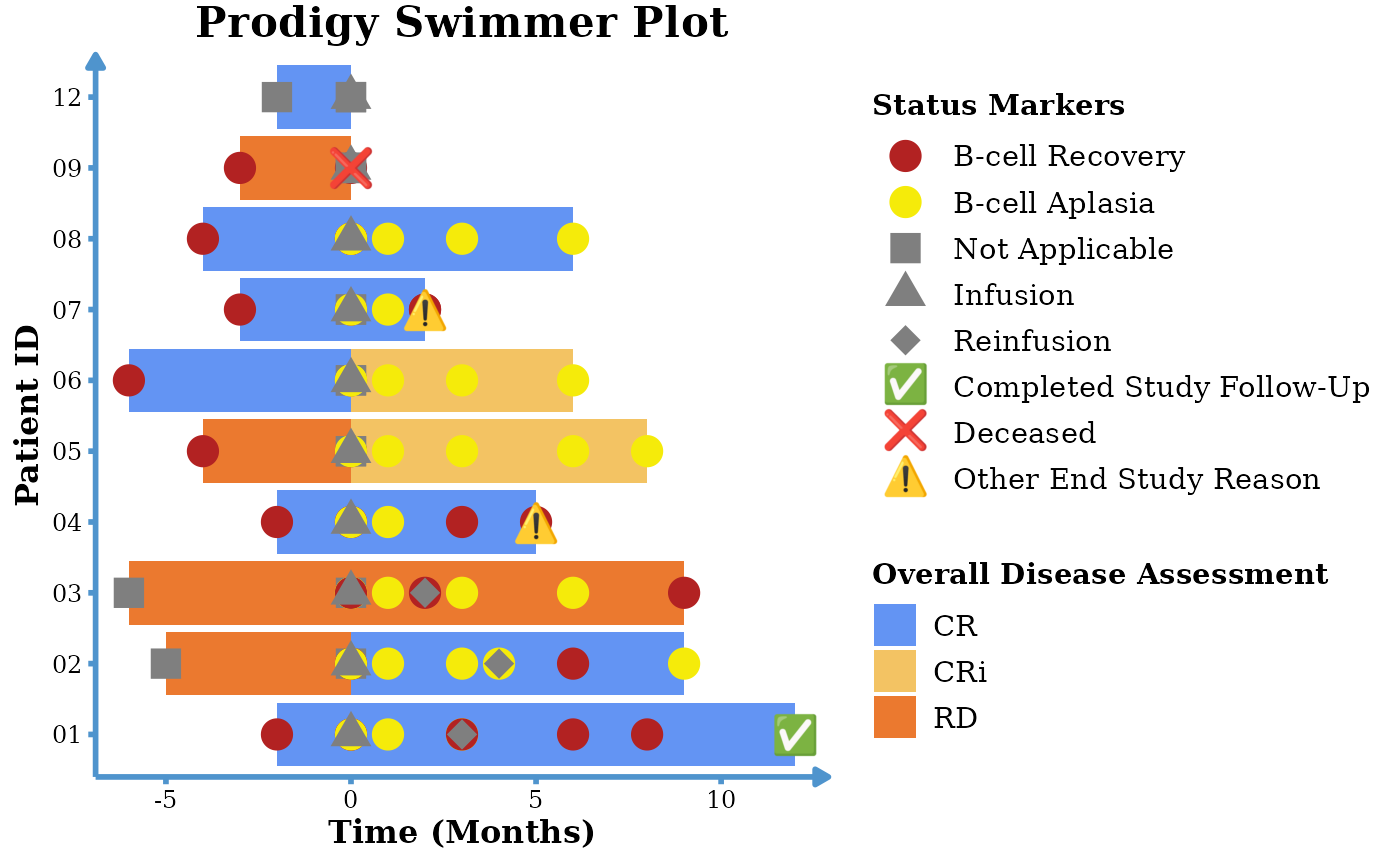
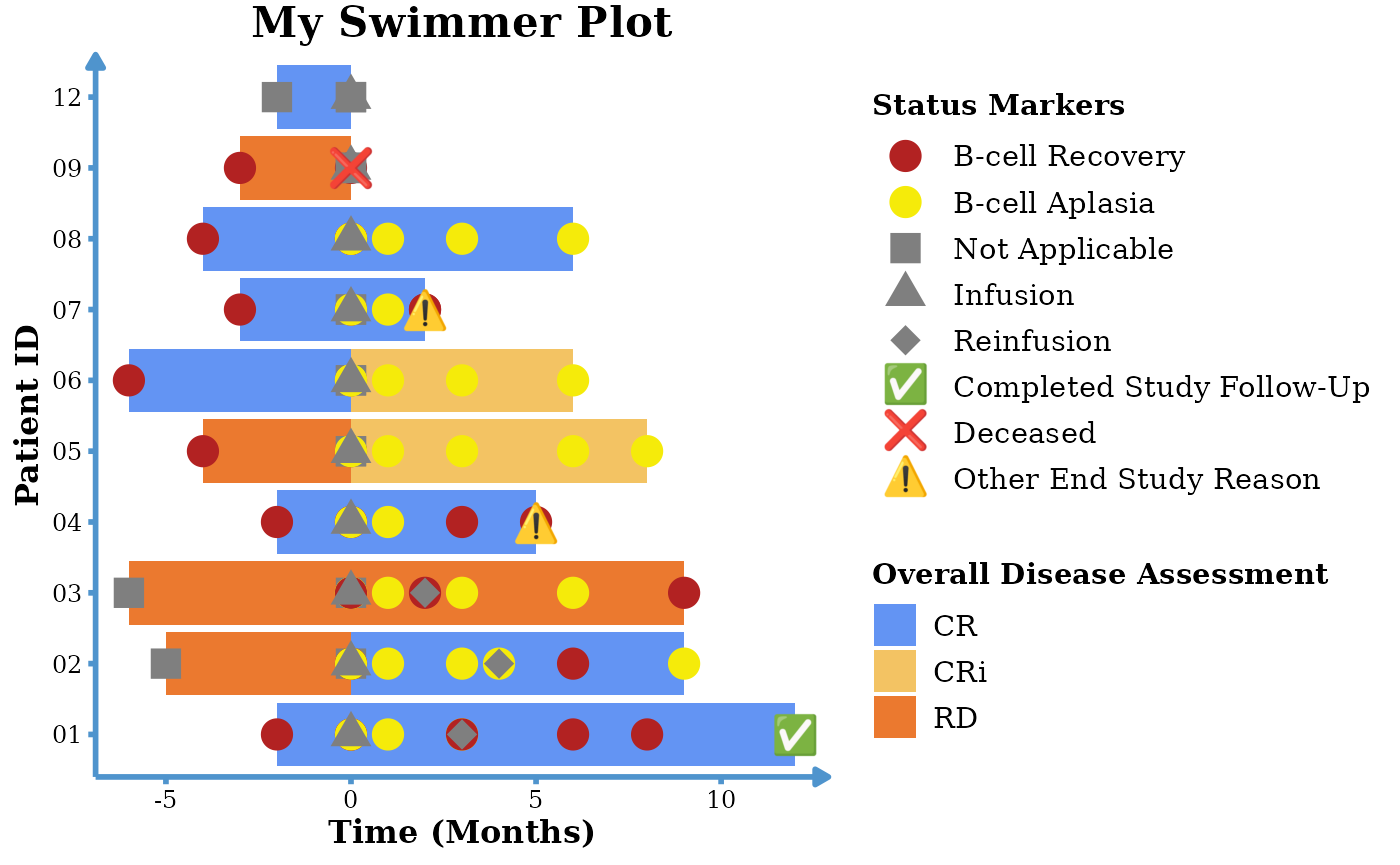
Deploying to gh-pages from @ CHOP-CGTInformatics/ggswim@d93b7309de7ccf1e400dff4c948893e9ae86e763 🚀

Changed region(s): [[0.1229, 0.0, 0.5221, 0.0624]]

diff --git a/articles/ggswim.html b/articles/ggswim.html
@@ -148,7 +148,7 @@ disease assessment timepoint where:</li>
 <code><a href="../reference/add_marker.html">add_marker()</a></code> call:</p>
 <div class="sourceCode" id="cb1"><pre class="downlit sourceCode r">
 <code class="sourceCode R"><span><span class="va">p</span> <span class="op">&lt;-</span> <span class="fu"><a href="../reference/ggswim.html">ggswim</a></span><span class="op">(</span></span>
-<span>  <span class="va">patient_data</span>,</span>
+<span>  <span class="va">patient_data</span> <span class="op">|&gt;</span> <span class="fu">dplyr</span><span class="fu">::</span><span class="fu"><a href="https://dplyr.tidyverse.org/reference/rename.html" class="external-link">rename</a></span><span class="op">(</span><span class="st">"Status Markers"</span> <span class="op">=</span> <span class="va">bcell_status</span><span class="op">)</span>,</span>
 <span>  mapping <span class="op">=</span> <span class="fu"><a href="https://ggplot2.tidyverse.org/reference/aes.html" class="external-link">aes</a></span><span class="op">(</span>x <span class="op">=</span> <span class="va">delta_t0_months</span>,</span>
 <span>                y <span class="op">=</span> <span class="va">pt_id</span>, fill <span class="op">=</span> </span>
 <span>                  <span class="va">disease_assessment_status</span><span class="op">)</span></span>
@@ -178,7 +178,6 @@ beyond <code>t0</code> if a patient required any.</p>
 <code class="sourceCode R"><span></span>
 <span><span class="va">p</span> <span class="op">&lt;-</span> <span class="va">p</span> <span class="op">+</span></span>
 <span>  <span class="fu"><a href="../reference/add_marker.html">add_marker</a></span><span class="op">(</span></span>
-<span>    <span class="va">patient_data</span> <span class="op">|&gt;</span> <span class="fu">dplyr</span><span class="fu">::</span><span class="fu"><a href="https://dplyr.tidyverse.org/reference/rename.html" class="external-link">rename</a></span><span class="op">(</span><span class="st">"Status Markers"</span> <span class="op">=</span> <span class="va">bcell_status</span><span class="op">)</span>,</span>
 <span>    <span class="fu"><a href="https://ggplot2.tidyverse.org/reference/aes.html" class="external-link">aes</a></span><span class="op">(</span>x <span class="op">=</span> <span class="va">delta_t0_months</span>, </span>
 <span>        y <span class="op">=</span> <span class="va">pt_id</span>, </span>
 <span>        color <span class="op">=</span> <span class="va">`Status Markers`</span>, </span>
@@ -186,7 +185,7 @@ beyond <code>t0</code> if a patient required any.</p>
 <span>    size <span class="op">=</span> <span class="fl">5</span>, position <span class="op">=</span> <span class="st">"identity"</span>, alpha <span class="op">=</span> <span class="fl">1</span></span>
 <span>  <span class="op">)</span> <span class="op">+</span></span>
 <span>  <span class="fu"><a href="../reference/add_marker.html">add_marker</a></span><span class="op">(</span></span>
-<span>    <span class="va">infusion_events</span>,</span>
+<span>    data <span class="op">=</span> <span class="va">infusion_events</span>,</span>
 <span>    <span class="fu"><a href="https://ggplot2.tidyverse.org/reference/aes.html" class="external-link">aes</a></span><span class="op">(</span>x <span class="op">=</span> <span class="va">infusion_delta_t0</span>, </span>
 <span>        y <span class="op">=</span> <span class="va">pt_id</span>, </span>
 <span>        color <span class="op">=</span> <span class="va">infusion_type</span>, </span>
@@ -221,7 +220,7 @@ using the appropriate argument callouts (<code>label</code> and
 <div class="sourceCode" id="cb5"><pre class="downlit sourceCode r">
 <code class="sourceCode R"><span><span class="va">p</span> <span class="op">&lt;-</span> <span class="va">p</span> <span class="op">+</span></span>
 <span>  <span class="fu"><a href="../reference/add_marker.html">add_marker</a></span><span class="op">(</span></span>
-<span>    <span class="va">end_study_events</span>,</span>
+<span>    data <span class="op">=</span> <span class="va">end_study_events</span>,</span>
 <span>    <span class="fu"><a href="https://ggplot2.tidyverse.org/reference/aes.html" class="external-link">aes</a></span><span class="op">(</span>x <span class="op">=</span> <span class="va">delta_t0_months</span>, </span>
 <span>        y <span class="op">=</span> <span class="va">pt_id</span>, </span>
 <span>        label <span class="op">=</span> <span class="va">end_study_label</span>, </span>
@@ -251,7 +250,7 @@ Let’s fix up this plot so it looks nicer on the eyes:</p>
 <span>    name <span class="op">=</span> <span class="st">"Overall Disease Assessment"</span>,</span>
 <span>    values <span class="op">=</span> <span class="fu"><a href="https://rdrr.io/r/base/c.html" class="external-link">c</a></span><span class="op">(</span><span class="st">"#6394F3"</span>, <span class="st">"#F3C363"</span>, <span class="st">"#EB792F"</span><span class="op">)</span></span>
 <span>  <span class="op">)</span> <span class="op">+</span></span>
-<span>  <span class="fu"><a href="https://ggplot2.tidyverse.org/reference/labs.html" class="external-link">labs</a></span><span class="op">(</span>title <span class="op">=</span> <span class="st">"Prodigy Swimmer Plot"</span><span class="op">)</span> <span class="op">+</span></span>
+<span>  <span class="fu"><a href="https://ggplot2.tidyverse.org/reference/labs.html" class="external-link">labs</a></span><span class="op">(</span>title <span class="op">=</span> <span class="st">"My Swimmer Plot"</span><span class="op">)</span> <span class="op">+</span></span>
 <span>  <span class="fu"><a href="https://ggplot2.tidyverse.org/reference/labs.html" class="external-link">xlab</a></span><span class="op">(</span><span class="st">"Time (Months)"</span><span class="op">)</span> <span class="op">+</span> <span class="fu"><a href="https://ggplot2.tidyverse.org/reference/labs.html" class="external-link">ylab</a></span><span class="op">(</span><span class="st">"Patient ID"</span><span class="op">)</span></span>
 <span></span>
 <span><span class="va">p</span></span></code></pre></div>
@@ -287,12 +286,11 @@ legend, ensuring clarity in your visualization.</p>
 <p>Now, let’s plot it similarly to how we have previously:</p>
 <div class="sourceCode" id="cb9"><pre class="downlit sourceCode r">
 <code class="sourceCode R"><span><span class="fu"><a href="../reference/ggswim.html">ggswim</a></span><span class="op">(</span></span>
-<span>  data <span class="op">=</span> <span class="va">patient_data</span>,</span>
+<span>  data <span class="op">=</span> <span class="va">patient_data</span> <span class="op">|&gt;</span> <span class="fu">dplyr</span><span class="fu">::</span><span class="fu"><a href="https://dplyr.tidyverse.org/reference/rename.html" class="external-link">rename</a></span><span class="op">(</span><span class="st">"Status Markers"</span> <span class="op">=</span> <span class="va">bcell_status</span><span class="op">)</span>,</span>
 <span>  mapping <span class="op">=</span> <span class="fu"><a href="https://ggplot2.tidyverse.org/reference/aes.html" class="external-link">aes</a></span><span class="op">(</span>x <span class="op">=</span> <span class="va">delta_t0_months</span>, y <span class="op">=</span> <span class="va">pt_id</span>, fill <span class="op">=</span> <span class="va">disease_assessment_status</span><span class="op">)</span></span>
 <span><span class="op">)</span> <span class="op">+</span></span>
 <span>  <span class="co"># Same markers as before for Disease Assessment</span></span>
 <span>  <span class="fu"><a href="../reference/add_marker.html">add_marker</a></span><span class="op">(</span></span>
-<span>    <span class="va">patient_data</span> <span class="op">|&gt;</span> <span class="fu">dplyr</span><span class="fu">::</span><span class="fu"><a href="https://dplyr.tidyverse.org/reference/rename.html" class="external-link">rename</a></span><span class="op">(</span><span class="st">"Status Markers"</span> <span class="op">=</span> <span class="va">bcell_status</span><span class="op">)</span>,</span>
 <span>    <span class="fu"><a href="https://ggplot2.tidyverse.org/reference/aes.html" class="external-link">aes</a></span><span class="op">(</span>x <span class="op">=</span> <span class="va">delta_t0_months</span>, </span>
 <span>        y <span class="op">=</span> <span class="va">pt_id</span>, </span>
 <span>        color <span class="op">=</span> <span class="va">`Status Markers`</span>, </span>
@@ -301,12 +299,12 @@ legend, ensuring clarity in your visualization.</p>
 <span>  <span class="op">)</span> <span class="op">+</span></span>
 <span>  <span class="co"># New manual color markers for Infusions</span></span>
 <span>  <span class="fu"><a href="../reference/add_marker.html">add_marker</a></span><span class="op">(</span></span>
-<span>    <span class="va">initial_infusions</span>,</span>
+<span>    data <span class="op">=</span> <span class="va">initial_infusions</span>,</span>
 <span>    <span class="fu"><a href="https://ggplot2.tidyverse.org/reference/aes.html" class="external-link">aes</a></span><span class="op">(</span>x <span class="op">=</span> <span class="va">infusion_delta_t0</span>, y <span class="op">=</span> <span class="va">pt_id</span>, name <span class="op">=</span> <span class="st">"Initial Infusion"</span><span class="op">)</span>,</span>
 <span>    size <span class="op">=</span> <span class="fl">5</span>, position <span class="op">=</span> <span class="st">"identity"</span>, color <span class="op">=</span> <span class="st">"green"</span></span>
 <span>  <span class="op">)</span> <span class="op">+</span></span>
 <span>  <span class="fu"><a href="../reference/add_marker.html">add_marker</a></span><span class="op">(</span></span>
-<span>    <span class="va">reinfusions</span>,</span>
+<span>    data <span class="op">=</span> <span class="va">reinfusions</span>,</span>
 <span>    <span class="fu"><a href="https://ggplot2.tidyverse.org/reference/aes.html" class="external-link">aes</a></span><span class="op">(</span>x <span class="op">=</span> <span class="va">infusion_delta_t0</span>, y <span class="op">=</span> <span class="va">pt_id</span>, name <span class="op">=</span> <span class="st">"Reinfusion"</span><span class="op">)</span>,</span>
 <span>    size <span class="op">=</span> <span class="fl">5</span>, position <span class="op">=</span> <span class="st">"identity"</span>, color <span class="op">=</span> <span class="st">"red"</span></span>
 <span>  <span class="op">)</span> <span class="op">+</span></span>

diff --git a/index.html b/index.html
@@ -116,7 +116,7 @@
 <span><span class="kw"><a href="https://rdrr.io/r/base/library.html" class="external-link">library</a></span><span class="op">(</span><span class="va"><a href="https://ggplot2.tidyverse.org" class="external-link">ggplot2</a></span><span class="op">)</span></span>
 <span></span>
 <span><span class="fu"><a href="reference/ggswim.html">ggswim</a></span><span class="op">(</span></span>
-<span>  <span class="va">patient_data</span>,</span>
+<span>  <span class="va">patient_data</span> <span class="op">|&gt;</span> <span class="fu">dplyr</span><span class="fu">::</span><span class="fu"><a href="https://dplyr.tidyverse.org/reference/rename.html" class="external-link">rename</a></span><span class="op">(</span><span class="st">"Status Markers"</span> <span class="op">=</span> <span class="va">bcell_status</span><span class="op">)</span>,</span>
 <span>  mapping <span class="op">=</span> <span class="fu"><a href="https://ggplot2.tidyverse.org/reference/aes.html" class="external-link">aes</a></span><span class="op">(</span>x <span class="op">=</span> <span class="va">delta_t0_months</span>, y <span class="op">=</span> <span class="va">pt_id</span>, fill <span class="op">=</span> <span class="va">disease_assessment_status</span><span class="op">)</span>,</span>
 <span>  arrow <span class="op">=</span> <span class="va">arrow_status</span>,</span>
 <span>  arrow_head_length <span class="op">=</span> <span class="fu"><a href="https://rdrr.io/r/grid/unit.html" class="external-link">unit</a></span><span class="op">(</span><span class="fl">.25</span>, <span class="st">"inches"</span><span class="op">)</span>,</span>
@@ -124,22 +124,21 @@
 <span>  width <span class="op">=</span> <span class="fl">0.25</span></span>
 <span><span class="op">)</span> <span class="op">+</span></span>
 <span>  <span class="fu"><a href="reference/add_marker.html">add_marker</a></span><span class="op">(</span></span>
-<span>    <span class="va">patient_data</span> <span class="op">|&gt;</span> <span class="fu">dplyr</span><span class="fu">::</span><span class="fu"><a href="https://dplyr.tidyverse.org/reference/rename.html" class="external-link">rename</a></span><span class="op">(</span><span class="st">"Status Markers"</span> <span class="op">=</span> <span class="va">bcell_status</span><span class="op">)</span>,</span>
 <span>    <span class="fu"><a href="https://ggplot2.tidyverse.org/reference/aes.html" class="external-link">aes</a></span><span class="op">(</span>x <span class="op">=</span> <span class="va">delta_t0_months</span>, y <span class="op">=</span> <span class="va">pt_id</span>, color <span class="op">=</span> <span class="va">`Status Markers`</span>, shape <span class="op">=</span> <span class="va">`Status Markers`</span><span class="op">)</span>,</span>
 <span>    size <span class="op">=</span> <span class="fl">5</span>, position <span class="op">=</span> <span class="st">"identity"</span>, alpha <span class="op">=</span> <span class="fl">1</span></span>
 <span>  <span class="op">)</span> <span class="op">+</span></span>
 <span>  <span class="fu"><a href="reference/add_marker.html">add_marker</a></span><span class="op">(</span></span>
-<span>    <span class="va">end_study_events</span>,</span>
+<span>    data <span class="op">=</span> <span class="va">end_study_events</span>,</span>
 <span>    <span class="fu"><a href="https://ggplot2.tidyverse.org/reference/aes.html" class="external-link">aes</a></span><span class="op">(</span>x <span class="op">=</span> <span class="va">delta_t0_months</span>, y <span class="op">=</span> <span class="va">pt_id</span>, label <span class="op">=</span> <span class="va">end_study_label</span>, color <span class="op">=</span> <span class="va">end_study_name</span><span class="op">)</span>,</span>
 <span>    label.size <span class="op">=</span> <span class="cn">NA</span>, fill <span class="op">=</span> <span class="cn">NA</span>, size <span class="op">=</span> <span class="fl">5</span></span>
 <span>  <span class="op">)</span> <span class="op">+</span></span>
 <span>  <span class="fu"><a href="reference/add_marker.html">add_marker</a></span><span class="op">(</span></span>
-<span>    <span class="va">infusion_events</span>,</span>
+<span>    data <span class="op">=</span> <span class="va">infusion_events</span>,</span>
 <span>    <span class="fu"><a href="https://ggplot2.tidyverse.org/reference/aes.html" class="external-link">aes</a></span><span class="op">(</span>x <span class="op">=</span> <span class="va">infusion_delta_t0</span>, y <span class="op">=</span> <span class="va">pt_id</span>, color <span class="op">=</span> <span class="va">infusion_type</span>, shape <span class="op">=</span> <span class="va">infusion_type</span><span class="op">)</span>,</span>
 <span>    size <span class="op">=</span> <span class="fl">5</span>, position <span class="op">=</span> <span class="st">"identity"</span>, alpha <span class="op">=</span> <span class="fl">1</span></span>
 <span>  <span class="op">)</span> <span class="op">+</span></span>
 <span>  <span class="fu"><a href="https://ggplot2.tidyverse.org/reference/scale_manual.html" class="external-link">scale_colour_manual</a></span><span class="op">(</span></span>
-<span>    values <span class="op">=</span> <span class="fu"><a href="https://rdrr.io/r/base/c.html" class="external-link">c</a></span><span class="op">(</span><span class="st">"firebrick"</span>, <span class="st">"#F5EB0A"</span>, <span class="st">"gray50"</span>, <span class="cn">NA</span>, <span class="cn">NA</span>, <span class="cn">NA</span>, <span class="st">"#25DA6D"</span>, <span class="st">"#25DA6D"</span><span class="op">)</span></span>
+<span>    values <span class="op">=</span> <span class="fu"><a href="https://rdrr.io/r/base/c.html" class="external-link">c</a></span><span class="op">(</span><span class="st">"#b22228"</span>, <span class="st">"#F5EB0A"</span>, <span class="st">"gray50"</span>, <span class="cn">NA</span>, <span class="cn">NA</span>, <span class="cn">NA</span>, <span class="st">"#25DA6D"</span>, <span class="st">"#25DA6D"</span><span class="op">)</span></span>
 <span>  <span class="op">)</span> <span class="op">+</span></span>
 <span>  <span class="fu"><a href="https://ggplot2.tidyverse.org/reference/scale_manual.html" class="external-link">scale_shape_manual</a></span><span class="op">(</span></span>
 <span>    values <span class="op">=</span> <span class="fu"><a href="https://rdrr.io/r/base/c.html" class="external-link">c</a></span><span class="op">(</span><span class="fl">19</span>, <span class="fl">19</span>, <span class="fl">15</span>, <span class="fl">17</span>, <span class="fl">18</span><span class="op">)</span></span>

diff --git a/reference/add_marker.html b/reference/add_marker.html
@@ -75,22 +75,22 @@ depending on the users designation of <code>color</code>/<code>colour</code> and
 
     <div class="section level2">
     <h2 id="ref-usage">Usage<a class="anchor" aria-label="anchor" href="#ref-usage"></a></h2>
-    <div class="sourceCode"><pre class="sourceCode r"><code><span><span class="fu">add_marker</span><span class="op">(</span>data <span class="op">=</span> <span class="cn">NULL</span>, mapping <span class="op">=</span> <span class="fu"><a href="https://ggplot2.tidyverse.org/reference/aes.html" class="external-link">aes</a></span><span class="op">(</span><span class="op">)</span>, <span class="va">...</span><span class="op">)</span></span></code></pre></div>
+    <div class="sourceCode"><pre class="sourceCode r"><code><span><span class="fu">add_marker</span><span class="op">(</span>mapping <span class="op">=</span> <span class="fu"><a href="https://ggplot2.tidyverse.org/reference/aes.html" class="external-link">aes</a></span><span class="op">(</span><span class="op">)</span>, data <span class="op">=</span> <span class="cn">NULL</span>, <span class="va">...</span><span class="op">)</span></span></code></pre></div>
     </div>
 
     <div class="section level2">
     <h2 id="arguments">Arguments<a class="anchor" aria-label="anchor" href="#arguments"></a></h2>
-    <dl><dt>data</dt>
-<dd><p>a dataframe prepared for use with <code><a href="ggswim.html">ggswim()</a></code>, either coming from
-a parent <code><a href="ggswim.html">ggswim()</a></code> function, another <code>add_marker()</code> call, or a new dataframe
-prepared for use with <code><a href="ggswim.html">ggswim()</a></code>.</p></dd>
-
-
-<dt>mapping</dt>
+    <dl><dt>mapping</dt>
 <dd><p>Set of aesthetic mappings created by <code><a href="https://ggplot2.tidyverse.org/reference/aes.html" class="external-link">aes()</a></code>. If specified and
 <code>inherit.aes = TRUE</code> (the default), it is combined with the default mapping
 at the top level of the plot. You must supply mapping if there is no plot mapping.
 More information about accepted mapping arguments can be found in <strong>Aesthetics</strong>.</p></dd>
+
+
+<dt>data</dt>
+<dd><p>a dataframe prepared for use with <code><a href="ggswim.html">ggswim()</a></code>, either coming from
+a parent <code><a href="ggswim.html">ggswim()</a></code> function, another <code>add_marker()</code> call, or a new dataframe
+prepared for use with <code><a href="ggswim.html">ggswim()</a></code>.</p></dd>
 
 
 <dt>...</dt>

diff --git a/reference/get_overrides.html b/reference/get_overrides.html
@@ -66,21 +66,21 @@
 
     <div class="section level2">
     <h2 id="ref-usage">Usage<a class="anchor" aria-label="anchor" href="#ref-usage"></a></h2>
-    <div class="sourceCode"><pre class="sourceCode r"><code><span><span class="fu">get_overrides</span><span class="op">(</span><span class="va">ggswim_obj</span>, <span class="va">label_layer_data</span>, <span class="va">point_layer_data</span><span class="op">)</span></span></code></pre></div>
+    <div class="sourceCode"><pre class="sourceCode r"><code><span><span class="fu">get_overrides</span><span class="op">(</span><span class="va">ref_guide</span>, <span class="va">label_layer_data</span>, <span class="va">point_layer_data</span><span class="op">)</span></span></code></pre></div>
     </div>
 
     <div class="section level2">
     <h2 id="arguments">Arguments<a class="anchor" aria-label="anchor" href="#arguments"></a></h2>
-    <dl><dt>ggswim_obj</dt>
-<dd><p>A ggswim object</p></dd>
+    <dl><dt>ref_guide</dt>
+<dd><p>A reference object from <code><a href="https://ggplot2.tidyverse.org/reference/get_guide_data.html" class="external-link">get_guide_data()</a></code> to assist with computation</p></dd>
 
 
 <dt>label_layer_data</dt>
-<dd><p>description</p></dd>
+<dd><p>dataframe related to the label layer data for a ggswim_obj</p></dd>
 
 
 <dt>point_layer_data</dt>
-<dd><p>description</p></dd>
+<dd><p>dataframe related to the point layer data for a ggswim_obj</p></dd>
 
 </dl></div>
     <div class="section level2">

diff --git a/articles/gallery.html b/articles/gallery.html
@@ -97,9 +97,6 @@
 
     
     
-<div class="sourceCode" id="cb1"><pre class="downlit sourceCode r">
-<code class="sourceCode R"><span><span class="kw"><a href="https://rdrr.io/r/base/library.html" class="external-link">library</a></span><span class="op">(</span><span class="va"><a href="https://chop-cgtinformatics.github.io/ggswim/">ggswim</a></span><span class="op">)</span></span>
-<span><span class="kw"><a href="https://rdrr.io/r/base/library.html" class="external-link">library</a></span><span class="op">(</span><span class="va"><a href="https://dplyr.tidyverse.org" class="external-link">dplyr</a></span><span class="op">)</span></span></code></pre></div>
 <p>This gallery will explore and showcase different ways to use
 ggswim.</p>
   </main>
